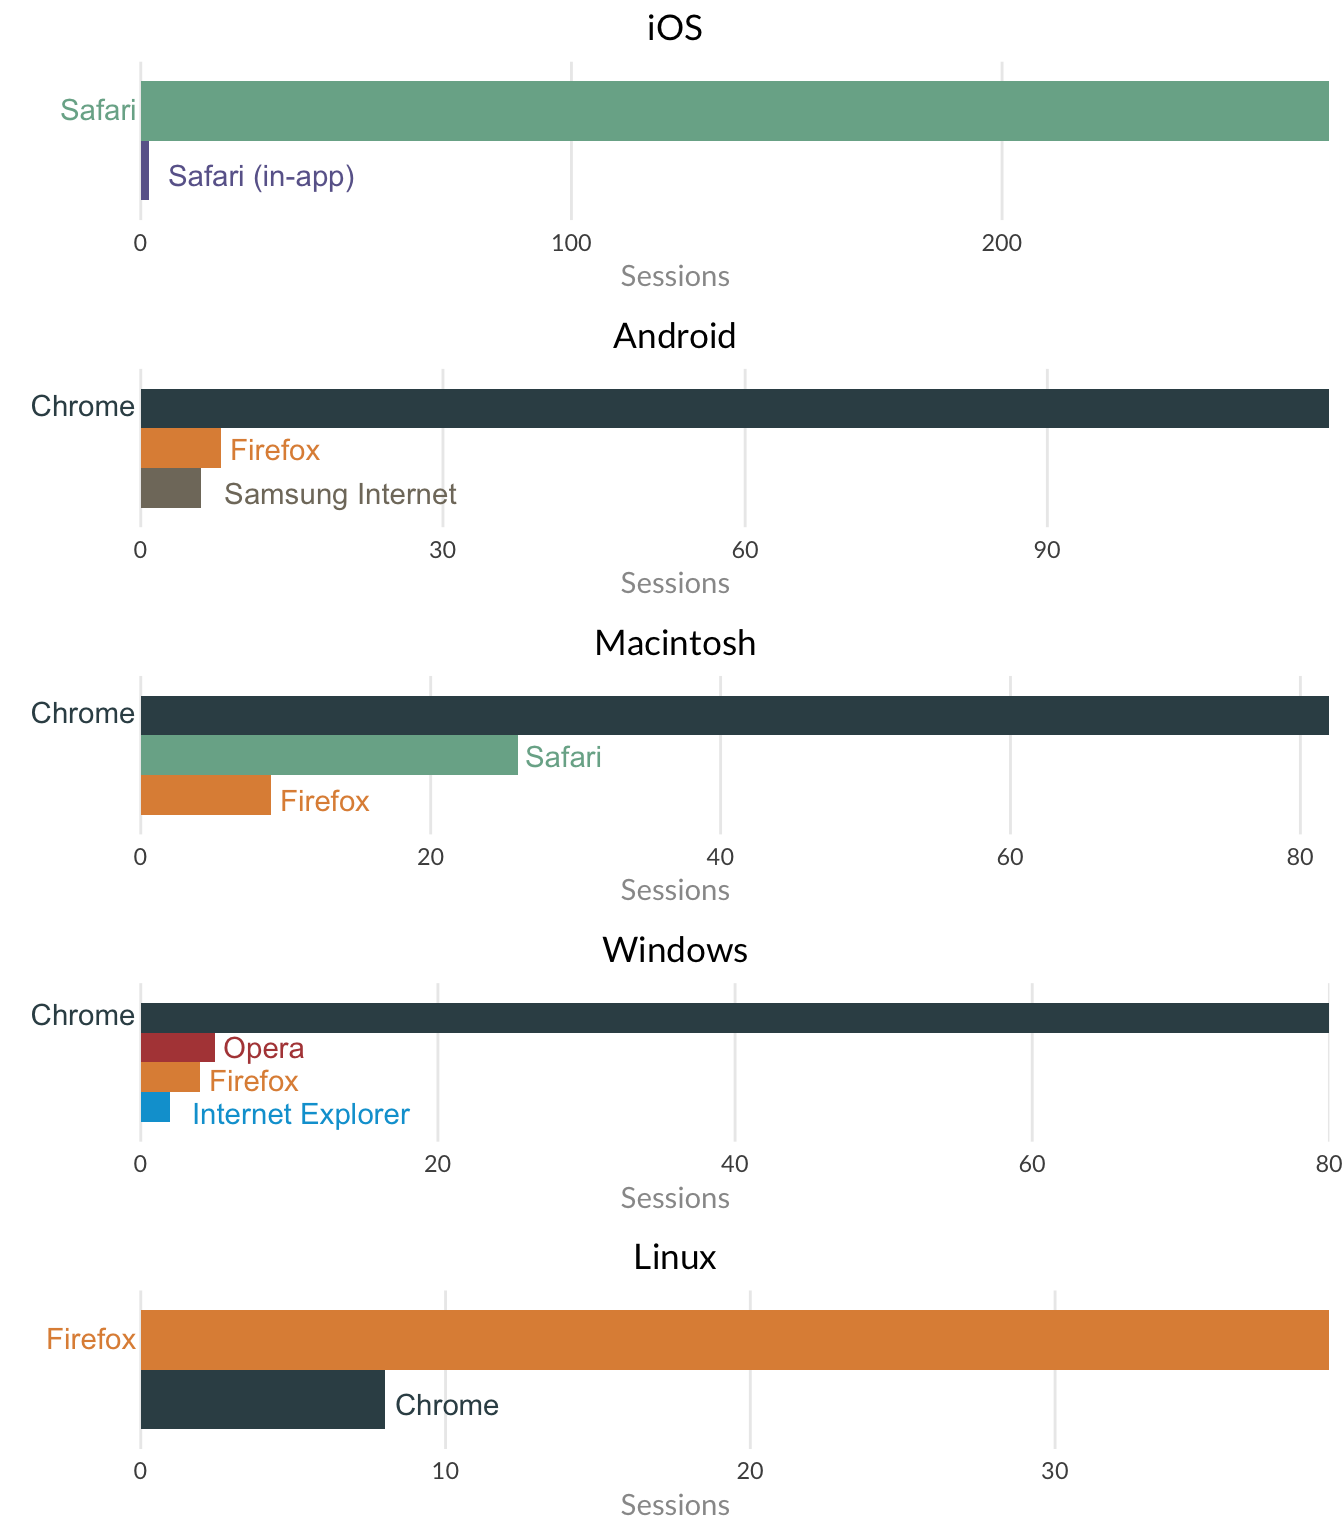
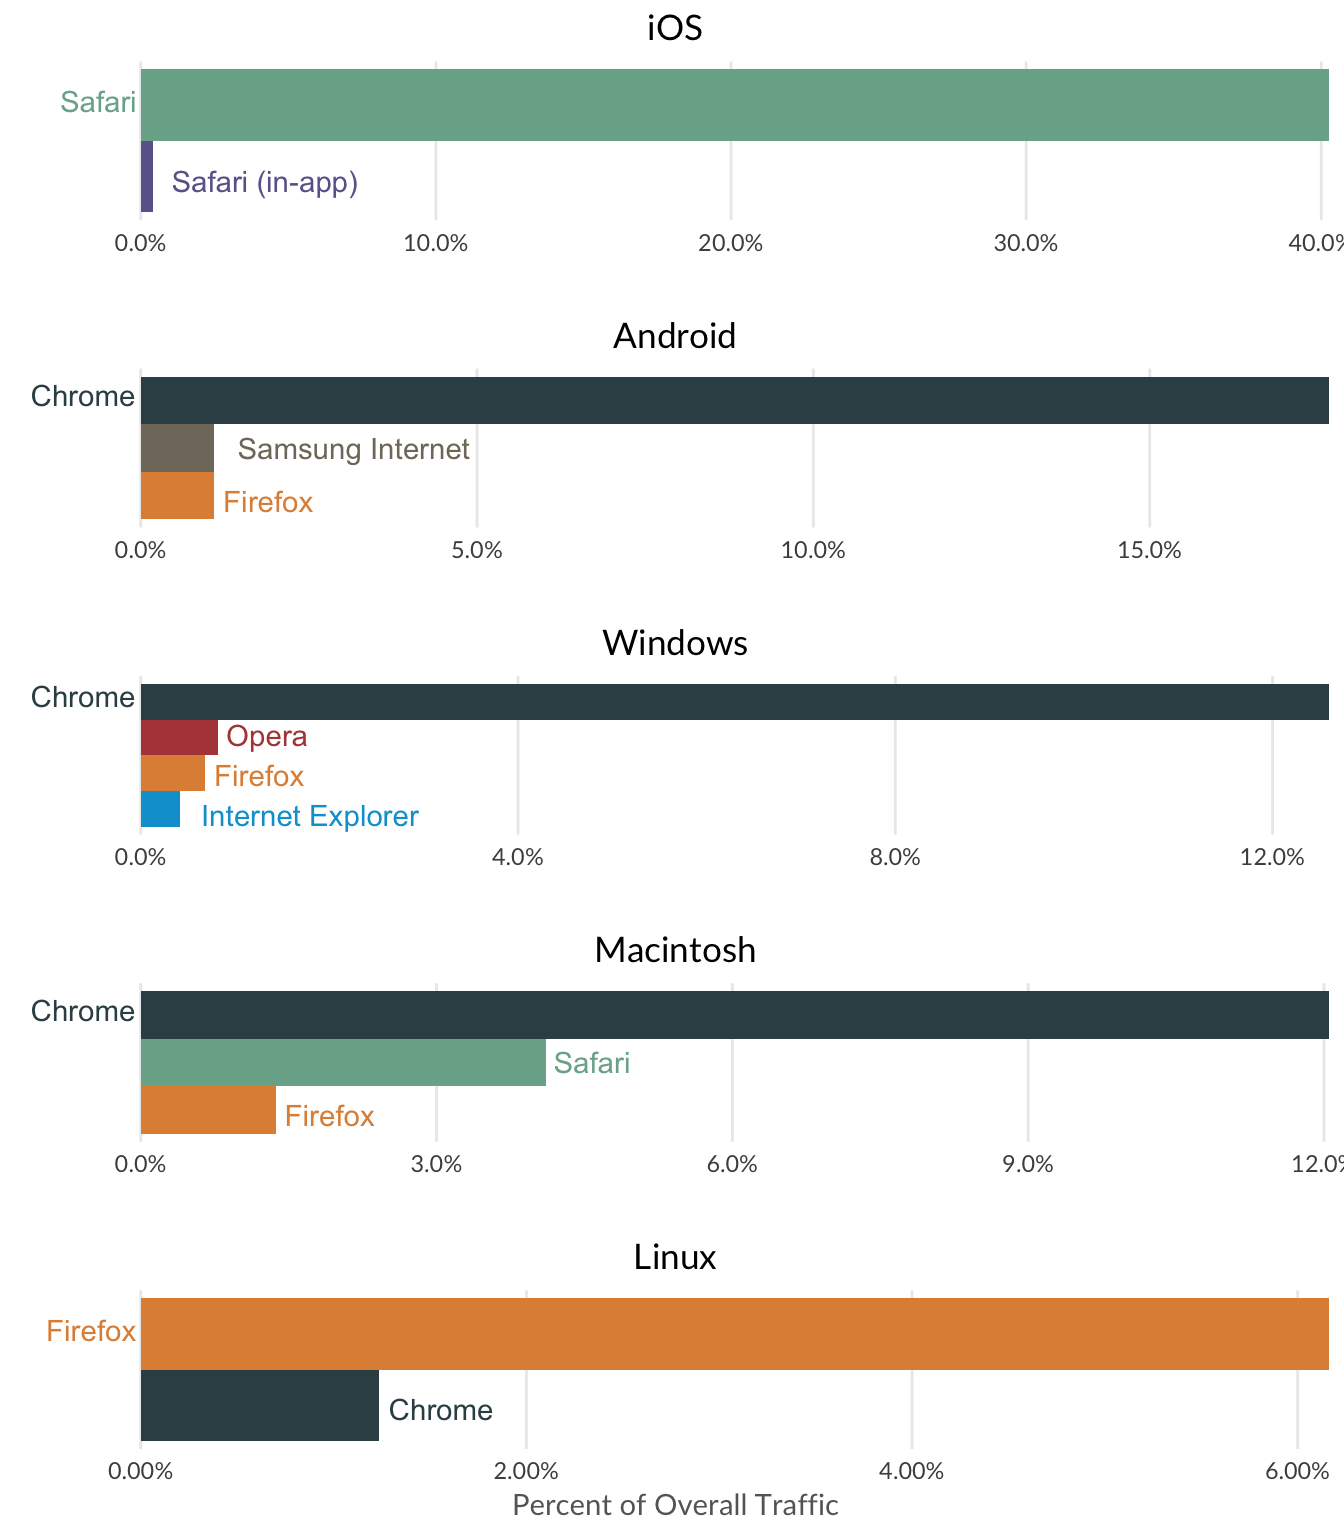
Tweaks to plots, updates of underlying data

diff --git a/content/blog/2019-01-23-designing-shiny-apps-for-the-rstats-community.html b/content/blog/2019-01-23-designing-shiny-apps-for-the-rstats-community.html
@@ -31,7 +31,7 @@ Enabled google analytics because wanted to see if/when/how the app was being use
 <li>OAuth client</li>
 <li>Add your website to login page</li>
 <li>Copy <code>client ID</code> and <code>client secret</code> into <code>~/.Renviron</code> as <code>GOOGLE_APIS_CONSUMER_ID</code> and <code>GOOGLE_APIS_CONSUMER_SECRET</code></li>
-<li>Add <code>GOOGLE_APIS_USER=&quot;my@gmail.com&quot;</code></li>
+<li>Add <code>GOOGLE_APIS_USER="my@gmail.com"</code></li>
 </ul>
 <pre class="r"><code># ga_creds &lt;- jsonlite::fromJSON(&quot;~/Downloads/google-analytics-0b8141ace51f.json&quot;)
 # ga_creds_text &lt;- glue::glue(
@@ -63,7 +63,9 @@ theme_set(
 )</code></pre>
 <pre class="r"><code>library(googleAnalyticsR)
 ga_auth()</code></pre>
-<pre class="r"><code>account_list &lt;- ga_account_list()
+<pre class="r"><code>metrics_date_range &lt;- c(&quot;2019-01-04&quot;, paste(Sys.Date()))
+
+account_list &lt;- ga_account_list()
 
 ga_data &lt;- list()
 
@@ -87,7 +89,7 @@ ga_data$ga_metrics %&gt;%
 
 ga_data$screen_sizes &lt;- google_analytics(
   rsconf_viewId,
-  date_range = c(&quot;2019-01-14&quot;, &quot;2019-01-23&quot;), 
+  date_range = metrics_date_range, 
   metrics = c(&quot;sessions&quot;, &quot;timeOnPage&quot;, &quot;screenViews&quot;),
   dimensions = c(&quot;screenResolution&quot;, 
                  &quot;browser&quot;, 
@@ -100,7 +102,7 @@ ga_data$screen_sizes &lt;- google_analytics(
 
 ga_data$browser_os &lt;- google_analytics(
   rsconf_viewId,
-  date_range = c(&quot;2019-01-14&quot;, &quot;2019-01-23&quot;), 
+  date_range = metrics_date_range, 
   metrics = c(&quot;sessions&quot;, &quot;timeOnPage&quot;, &quot;screenViews&quot;),
   dimensions = c(&quot;browser&quot;, 
                  &quot;browserVersion&quot;,
@@ -111,7 +113,7 @@ ga_data$browser_os &lt;- google_analytics(
 
 ga_data$op_sys &lt;- google_analytics(
   rsconf_viewId,
-  date_range = c(&quot;2019-01-14&quot;, &quot;2019-01-23&quot;), 
+  date_range = metrics_date_range, 
   metrics = c(&quot;sessions&quot;, &quot;timeOnPage&quot;, &quot;screenViews&quot;),
   dimensions = c(&quot;operatingSystem&quot;, 
                  &quot;operatingSystemVersion&quot;)
@@ -120,7 +122,7 @@ ga_data$op_sys &lt;- google_analytics(
 
 ga_data$mobile &lt;- google_analytics(
   rsconf_viewId,
-  date_range = c(&quot;2019-01-14&quot;, &quot;2019-01-23&quot;),
+  date_range = metrics_date_range,
   metrics = c(&quot;sessions&quot;, &quot;timeOnPage&quot;, &quot;screenViews&quot;),
   dimensions = ga_data$ga_metrics %&gt;% 
     filter(str_detect(uiName, &quot;Mobile&quot;)) %&gt;% 
@@ -131,6 +133,17 @@ ga_data$mobile &lt;- google_analytics(
 <div id="common-browsers-by-operating-system" class="section level2">
 <h2>Common Browsers by Operating System</h2>
 <p><em>note: probably want to scale by percentage of traffic</em></p>
+<pre class="r"><code>os_popular &lt;- 
+  ga_data$screen_sizes %&gt;% 
+  count(operatingSystem) %&gt;% 
+  filter(n &gt;= 5) %&gt;% 
+  pull(operatingSystem)
+
+browser_popular &lt;- 
+  ga_data$screen_sizes %&gt;% 
+  count(operatingSystem, browser) %&gt;%
+  filter(n &gt; 2) %&gt;% 
+  pull(browser)</code></pre>
 <p><img src="/blog/2019-01-23-designing-shiny-apps-for-the-rstats-community_files/figure-html/browser-plot-1.png" width="672" /></p>
 </div>
 <div id="screen-resolution" class="section level2">
